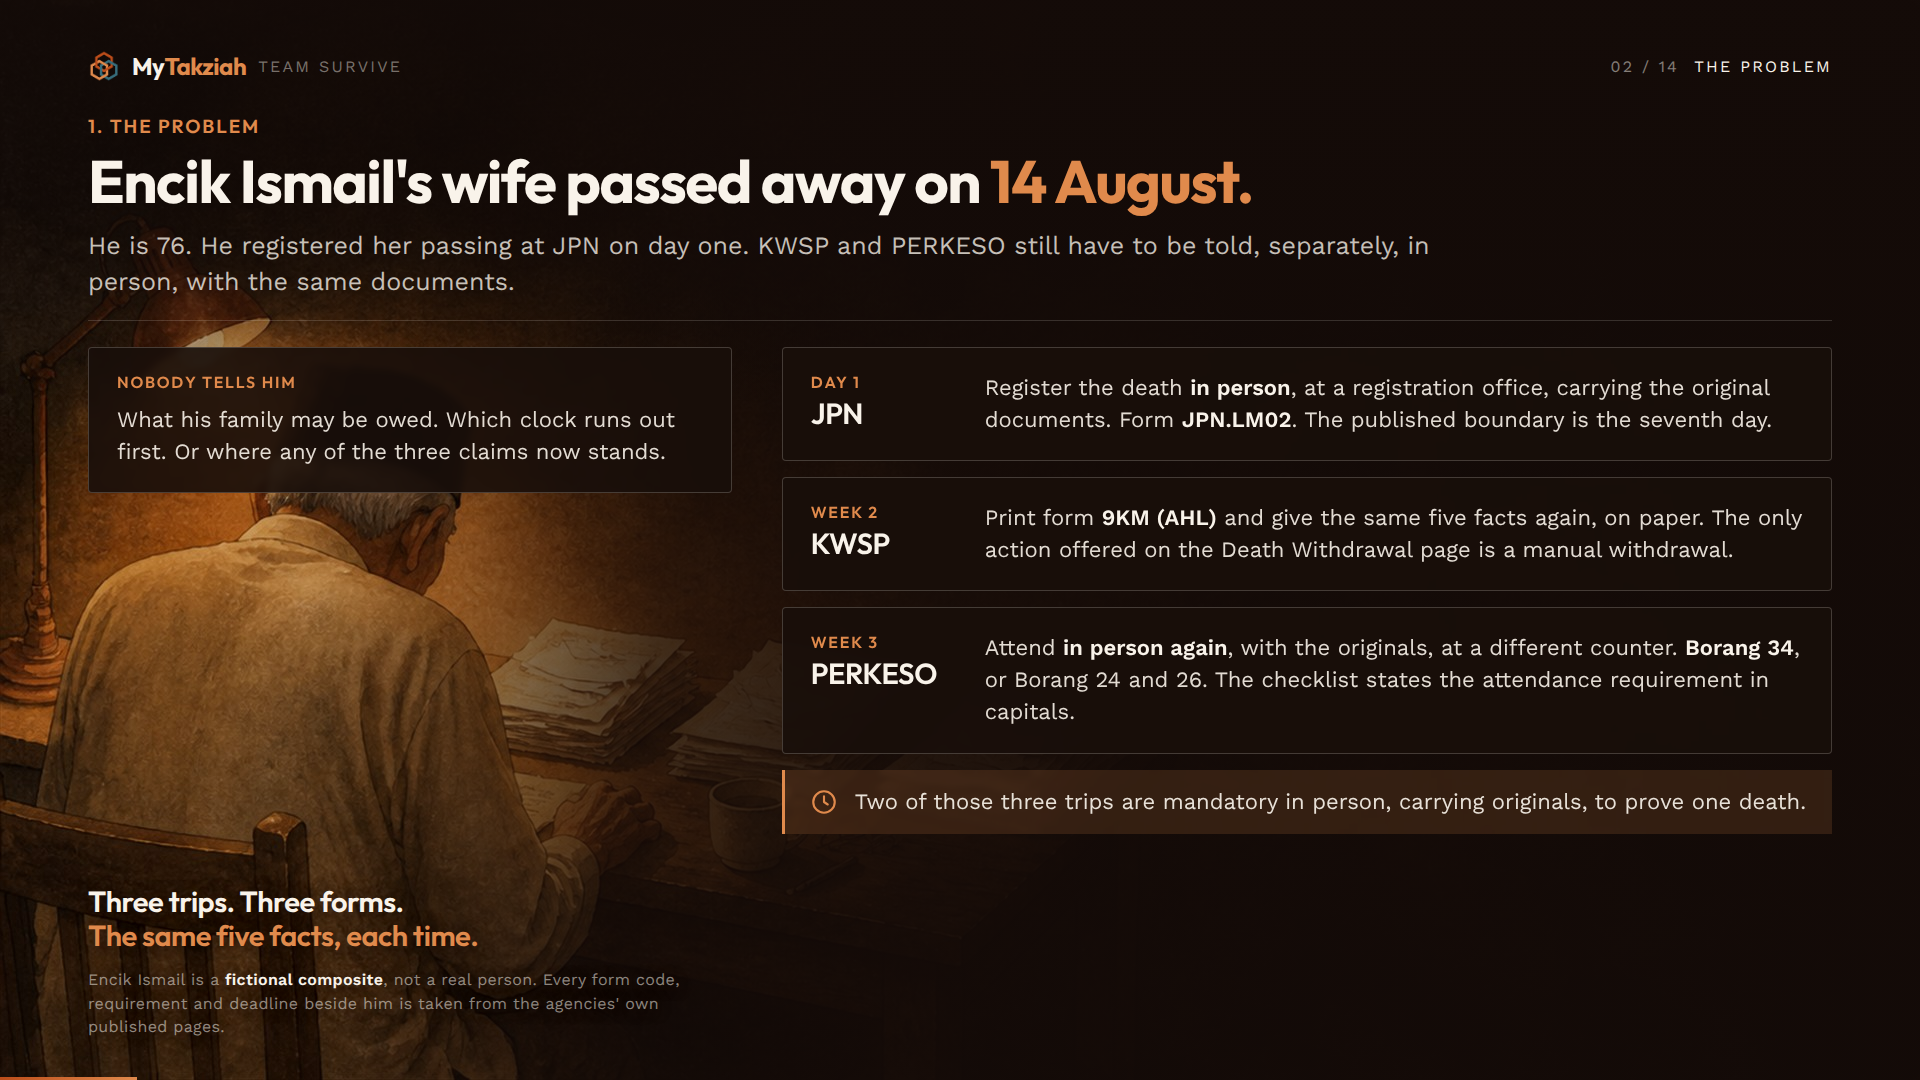
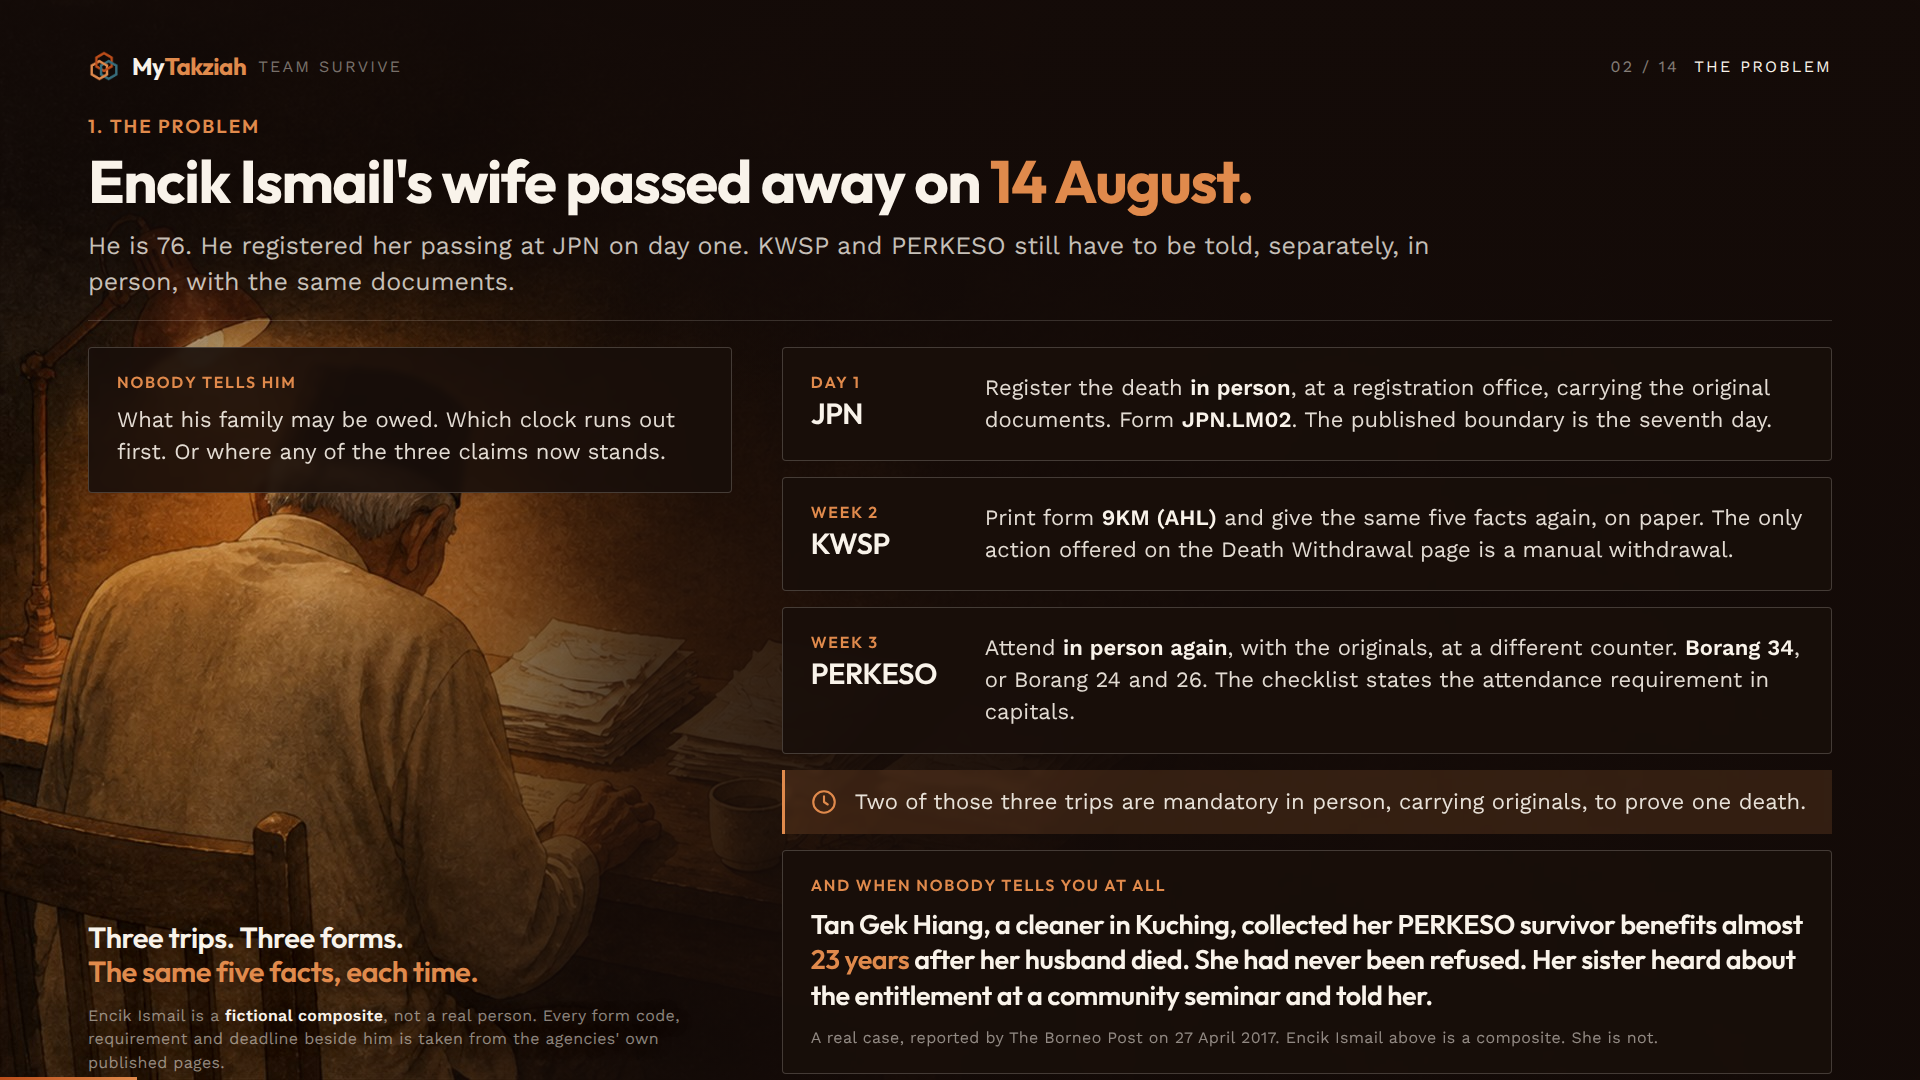
docs(deck): reconcile the deck with the barebones version
Six changes agreed with the team lead after comparing the two decks.

The cover carries roles and contact details, and the team lead is written
"Anderson Ling" to match the barebones. Putting emails and phone numbers in a
tracked file is a deliberate exception to the "No Secrets in Repo" rule; it was
flagged and confirmed, and it is recorded in decisions.md. The idea submission
still keeps contacts out and notes why the two now differ.

Slide 2 carries a real, published Malaysian case beside the composite. Tan Gek
Hiang collected PERKESO survivor benefits almost 23 years after her husband
died, reported by The Borneo Post on 27 April 2017. Encik Ismail stays and is
still labelled a composite, because no single real case shows all three agencies
at once. The barebones deck's named individual was not adopted: he appears
nowhere in the research and the photographs beside him are news imagery of a
real bereaved family.

Slide 4 carries 43,929 late registrations for 2019 to 2025 in place of 72,929
for 2003 to 2014, on the team lead's call that recency wins. No source for
43,929 exists in this repo. The figure goes in as asked, and verified-figures.md
and the deck's reviewer checklist both now say it must be cited or reverted
before the deck ships. The Parliament quote beside it keeps its own attribution,
which is a separate and still-verified claim.

Slide 6 states the model's job and its limit in one breath, because Track 02's
[…]

Changed region(s): [[0.4062, 0.7944, 0.9375, 0.9778], [0.0312, 0.825, 0.3438, 1.0]]

diff --git a/docs/submission/deck/mytakziah-deck.html b/docs/submission/deck/mytakziah-deck.html
@@ -43,20 +43,20 @@
                 <div class="cover-team-lbl">Team Survive</div>
                 <div class="team-row">
                   <div class="tm-card">
-                    <div class="tm-name">Ling Jing Jie</div>
-                    <div class="tm-role">Team Lead<br />Universiti Malaya</div>
+                    <div class="tm-name">Anderson Ling</div>
+                    <div class="tm-role">Team Leader<br />Universiti Malaya</div>
                   </div>
                   <div class="tm-card">
                     <div class="tm-name">Hee Zi Jie</div>
-                    <div class="tm-role">Asia Pacific University</div>
+                    <div class="tm-role">Software Development<br />Asia Pacific University</div>
                   </div>
                   <div class="tm-card">
                     <div class="tm-name">Wong Xuan Rui</div>
-                    <div class="tm-role">Universiti Malaya</div>
+                    <div class="tm-role">Designer<br />Universiti Malaya</div>
                   </div>
                   <div class="tm-card">
                     <div class="tm-name">Yow Li Hao</div>
-                    <div class="tm-role">Asia Pacific University</div>
+                    <div class="tm-role">Software Development<br />Asia Pacific University</div>
                   </div>
                 </div>
               </div>
@@ -200,6 +200,19 @@
                   <div class="cp" style="color: rgba(249, 243, 234, 0.92)">
                     Two of those three trips are mandatory in person, carrying originals, to prove one death.
                   </div>
+                </div>
+
+                <div class="panel on-photo" style="margin-top: auto">
+                  <div class="kx">And When Nobody Tells You At All</div>
+                  <p class="lead" style="font-size: 27px; line-height: 1.32; margin-top: 12px">
+                    <b>Tan Gek Hiang</b>, a cleaner in Kuching, collected her PERKESO survivor benefits almost
+                    <em>23 years</em> after her husband died. She had never been refused. Her sister heard about
+                    the entitlement at a community seminar and told her.
+                  </p>
+                  <p class="cap" style="margin-top: 12px">
+                    A real case, reported by The Borneo Post on 27 April 2017. Encik Ismail above is a composite.
+                    She is not.
+                  </p>
                 </div>
               </div>
             </div>
@@ -459,11 +472,11 @@
                   style="width: 116px; height: 116px; display: block"
                 />
                 <div class="panel warm">
-                  <div class="kx">Parliament Said This First</div>
-                  <div class="fig sm" style="margin-top: 12px">72,929</div>
+                  <div class="kx">Families Still Miss It</div>
+                  <div class="fig sm" style="margin-top: 12px">43,929</div>
                   <p class="cp" style="margin-top: 10px; font-size: var(--t-small)">
-                    late death registrations recorded between <b>2003 and 2014</b>, roughly 6,000 a year, in the
-                    explanatory statement to the Births and Deaths Registration (Amendment) Bill 2016.
+                    late death registrations between <b>2019 and 2025</b>, roughly 6,000 a year. The seven-day
+                    boundary is published. Meeting it is a different problem, and Parliament has said why.
                   </p>
                 </div>
                 <div style="border-left: 3px solid var(--accent); padding-left: 20px">
@@ -597,8 +610,9 @@
             <div class="eyebrow">3. Your Solution</div>
             <h2 class="title">A family should only have to <em>tell government once.</em></h2>
             <p class="standfirst">
-              The family gives its evidence a single time. MyTakziah prepares the claims at JPN, KWSP and PERKESO,
-              submits them with the family's consent, and tracks them in one timeline.
+              The family gives its evidence a single time. The model reads it, structures it, and pre-fills the
+              three agencies' forms against their published rules. MyTakziah submits them with the family's
+              consent and tracks them in one timeline. <b>It never decides eligibility.</b>
             </p>
           </div>
 
@@ -1198,7 +1212,7 @@
                   <tr>
                     <td>
                       <b style="color: var(--slate)">MyDigital ID</b>, almost 10 million registrations as of February
-                      2026, and the identity anchor this concept assumes.
+                      2026. The identity anchor a later phase would use. <b>Version one does not depend on it.</b>
                     </td>
                     <td>
                       <b>Public submission and status APIs</b> at JPN, KWSP and PERKESO are unverified. The integration
@@ -1208,7 +1222,7 @@
                   <tr>
                     <td>
                       <b style="color: var(--slate)">MyGDX</b>, 81 government agencies across 49 integrated systems and
-                      more than 65 million API transactions.
+                      more than 65 million API transactions. <b>Version one does not call it.</b>
                     </td>
                     <td>
                       <b>The Data Sharing Act 2025</b> governs sharing between federal bodies. It does not prove
@@ -1467,7 +1481,7 @@
                 <img src="./assets/sdg-1.png" alt="SDG 1, No Poverty" />
               </div>
               <p class="cap">
-                Team Survive &middot; Ling Jing Jie, Hee Zi Jie, Wong Xuan Rui, Yow Li Hao<br />
+                Team Survive &middot; Anderson Ling, Hee Zi Jie, Wong Xuan Rui, Yow Li Hao<br />
                 URIIS Student Biz Innov Challenge 2026, Track 02
               </p>
             </div>

diff --git a/docs/submission/deck/assets/deck.css b/docs/submission/deck/assets/deck.css
@@ -38,6 +38,7 @@
   --t-body: 22px;
   --t-small: 19px;
   --t-label: 16px;
+  --t-micro: 15px;
 
   --radius: 4px;
   --pad-x: 88px;
@@ -727,7 +728,7 @@ section.slide.cover {
   background: rgba(255, 253, 250, 0.72);
   border: 1px solid var(--border);
   border-radius: var(--radius);
-  padding: 15px 16px;
+  padding: 15px 13px;
 }
 .tm-name {
   font-family: var(--font-display);
@@ -743,6 +744,18 @@ section.slide.cover {
   color: var(--muted);
   margin-top: 5px;
   line-height: 1.35;
+}
+/* Contact details sit under a hairline, so a card reads name, then role, then
+   how to reach the person. Kept inside the declared scale at --t-label. */
+.tm-contact {
+  margin-top: 10px;
+  padding-top: 10px;
+  border-top: 1px solid var(--border);
+  font-size: var(--t-micro);
+  letter-spacing: -0.005em;
+  line-height: 1.45;
+  color: var(--muted);
+  overflow-wrap: anywhere;
 }
 .cover-foot {
   border-top: 1px solid var(--border-2);

diff --git a/docs/decisions.md b/docs/decisions.md
@@ -60,3 +60,9 @@ Example placeholder:
 - 2026-08-21: the three prototype screens on deck slide 13 are captured at 16 by 9 and shown in the same card shell the A3 canvas uses: the previous set was 1592 by 1150 cropped into a 262px band, which cut two of the three screens mid-sentence and read as broken. Reconciled with the canvas rather than re-cropped, so both artifacts now show the same product the same way
 - 2026-08-21: the songket lattice appears on the deck's first and last slide only, not on the twelve in between: requested by the team lead, and it now frames the deck rather than texturing it
 - 2026-08-21: nothing the deck cover depends on may use a CSS filter or a transform: Chrome's PDF writer rasterizes a filtered element at print scale, which put a visible seam around the cover hero and cost a third of the exported file, and it silently drops a radial gradient on a transformed absolutely positioned box, which is why the cover's warm glow rendered on screen but vanished from the PDF. The hero's shadow is painted into the asset and the glow is centred with calc() instead
+- 2026-08-21: the team lead's name is written "Anderson Ling" on the deck, matching the barebones Canva version: chosen over "Ling Jing Jie" for consistency across the two artifacts, and the submitted form should match his student record
+- 2026-08-21: member emails and phone numbers appear on the deck cover, alongside role and university: requested by the team lead after the exposure was flagged. This is a deliberate exception to the "No Secrets in Repo" rule in AGENTS.md, and the details are now permanent in this repository's public git history. The idea submission still keeps contacts out and types them into the export
+- 2026-08-21: deck slide 4 carries 43,929 late death registrations for 2019 to 2025, replacing 72,929 for 2003 to 2014: chosen by the team lead on the grounds that recency wins. **No source for 43,929 exists in this repo.** The Parliament quote beside it keeps its own correct attribution to the Births and Deaths Registration (Amendment) Bill 2016, which is a separate claim and still verified. Either a citation is supplied before the deck ships or the figure reverts; recorded in verified-figures.md and the deck's reviewer checklist
+- 2026-08-21: deck slide 2 carries a real, published Malaysian case alongside the composite: Tan Gek Hiang, who collected PERKESO survivor benefits almost 23 years after her husband died, reported by The Borneo Post on 27 April 2017. Requested by the team lead, who wants the problem statement to be as relatable as possible. Encik Ismail stays and is still labelled a composite, because no single real case shows all three agencies at once. The barebones deck's named individual was not adopted: he appears nowhere in the research, and the photographs beside him are news imagery of a real bereaved family
+- 2026-08-21: deck slide 12 presents MyDigital ID and MyGDX as a later phase rather than a version one dependency, following the barebones framing: the figures are unchanged and still verified, but version one now explicitly does not depend on or call either, which matches the pilot-as-pre-filled-forms step already on the slide
+- 2026-08-21: the deck states the model's job and its limit in one breath on slide 3, Your Solution: Track 02's official problem statement asks for an AI-powered assistant, and the deck previously mentioned AI only in speaker notes. The wording follows the idea submission: the model reads and structures evidence and pre-fills forms against published rules, and never decides eligibility. This does not reverse the standing rule against pitching MyTakziah as an AI chatbot

diff --git a/docs/research/verified-figures.md b/docs/research/verified-figures.md
@@ -166,6 +166,7 @@ The same document carries a separate "Death and Incapacitation Benefits" block. 
 - `[NEEDS SOURCE]` DOSM released an ICT Use and Access by Individuals and Households Survey Report, 2025 on 23 April 2026, covering reference year 2025. Its summary release does not carry the e-government activity breakdown, and the full report could not be located. If it carries an updated Table 2.14, the 33.6 and 38.9 figures should be refreshed. This is a nice-to-have, not a blocker.
 - **Closed 2026-08-21.** The death registration deadline is **seven days**, cited to JPN's own Late Registration Of Death (Peninsular) page rather than to the Act, because the 2016 amendment that would put seven days into section 19(2) commences by ministerial notification and gazettement was not confirmed. Working in `incumbent-and-deadline-verification.md`.
 - **New verified figure, 2026-08-21: 72,929 late death registrations recorded between 2003 and 2014**, from the explanatory statement to the Births and Deaths Registration (Amendment) Bill 2016. Roughly 6,000 a year. It measures late registration at JPN only and does **not** license any claim about missed KWSP or PERKESO claims. The Bill also names "rituals, religious obligations and customs with regard to the management of a death" as the reason families could not meet the old window, which is Parliament stating our problem in its own words.
+- `[NEEDS SOURCE]` **2026-08-21, team decision: the deck now carries 43,929 late death registrations for 2019 to 2025 instead of the 72,929 figure above.** The team chose the more recent number on the grounds that recency wins. **No source for it exists anywhere in this repo.** The 72,929 figure remains the only late-registration count this file can support, and it stays here unchanged. Either the team supplies a citation for 43,929 before the deck ships, or the deck reverts to 72,929. Do not treat 43,929 as verified on the strength of it appearing on a slide.
 
 ## Sources
 

diff --git a/docs/submission/deck/README.md b/docs/submission/deck/README.md
@@ -118,10 +118,13 @@ plate is the tell that gets a deck marked as generated.
 
 ## Things A Reviewer Should Check
 
-- [ ] Every figure still matches `../../research/verified-figures.md`
+- [ ] **43,929 on slide 4 still has no source.** Supply one or revert to 72,929, 2003 to 2014
+- [ ] **A human has opened the Tan Gek Hiang article on slide 2.** PressReader blocks automated retrieval, so it was read through a search index. `../../research/documented-accounts-bereavement.md` requires a human to confirm it before it is quoted
+- [ ] Every other figure still matches `../../research/verified-figures.md`
 - [ ] No banned word anywhere on a slide: approved, eligible, you will receive
 - [ ] Section 8 is still at or under 100 words
-- [ ] The fictional-composite line on slide 2 is still present and still says fictional
+- [ ] The fictional-composite line on slide 2 is still present and still says fictional, and Tan Gek Hiang is still distinguished from it as a real case
+- [ ] The four contact blocks on the cover are still the details the members want published
 - [ ] Print to PDF and check the exported file, not only the browser
 
 ## Known Gaps

diff --git a/docs/submission/idea-submission-draft.md b/docs/submission/idea-submission-draft.md
@@ -28,9 +28,13 @@
 
 TODO: courses, to be filled by each member.
 
-**Contact details are deliberately not stored in this repo**, per the "No Secrets in Repo" rule in
-`AGENTS.md`. They live in `team-contact.local.md`, which is gitignored, and are typed into the
-export at the end.
+**Contact details are not stored in this document.** They live in `team-contact.local.md`, which is
+gitignored, and are typed into the export at the end.
+
+> **Changed 2026-08-21.** The team lead asked for member emails and phone numbers on the deck cover,
+> so `deck/mytakziah-deck.html` now carries them and they are public in this repository's history.
+> That is a deliberate exception to the "No Secrets in Repo" rule in `AGENTS.md`, recorded in
+> `../decisions.md`. This document still keeps them out.
 
 > **Eligibility, resolved by the team 2026-08-19.** All four members are Malaysian. One is enrolled
 > at the University of Sheffield rather than a Malaysian institution. The briefing describes URIIS
